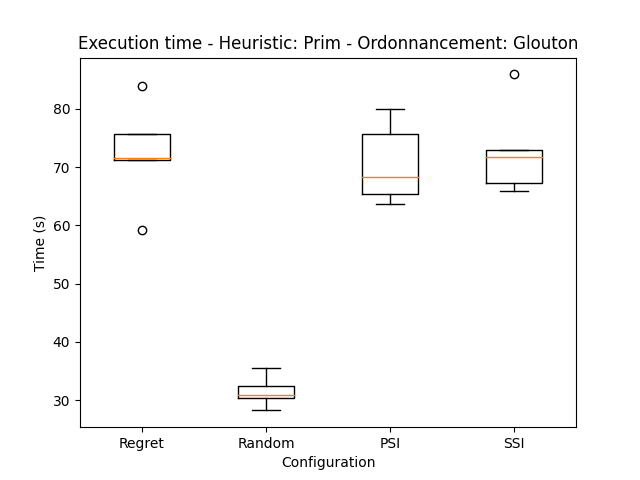
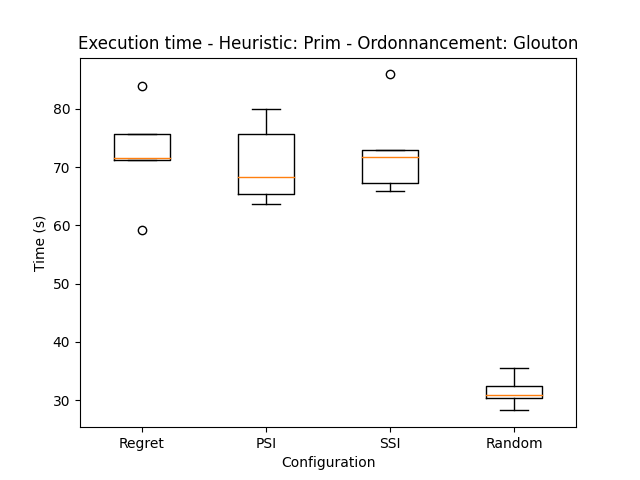
changes

diff --git a/plot_data.py b/plot_data.py
@@ -22,7 +22,7 @@ def plot_data(folder_path, method=None, heuristic=None, ordonnancement=None):
         file_ordonnancement = title.split(",")[2].split(":")[-1].strip()
 
         # Filter based on method, heuristic, and ordonnancement
-        if (method and file_method != method) or (heuristic and file_heuristic != heuristic) or (ordonnancement and file_ordonnancement != ordonnancement) or (method == "Random"):
+        if (method and file_method != method) or (heuristic and file_heuristic != heuristic) or (ordonnancement and file_ordonnancement != ordonnancement):
             continue
 
         all_legend.append(f"{file_method}, {file_heuristic}, {file_ordonnancement}")        
@@ -67,10 +67,21 @@ def plot_data(folder_path, method=None, heuristic=None, ordonnancement=None):
         # Normalize total cost by the number of tasks
         mean_data[" Total cost"] = [cost / tasks if tasks != 0 else 0 for cost, tasks in zip(mean_data[" Total cost"], mean_data[" Number of tasks completed"])]
 
+        # Calculate the ratio of tasks completed
+        total_tasks = sum(mean_data[" Number of tasks completed"])
+        mean_data[" Task ratio"] = [tasks / total_tasks for tasks in mean_data[" Number of tasks completed"]]
+
         all_mean_data.append(mean_data)
         all_execution_time.append(execution_time)
 
-    # Plotting Number of tasks completed as histogram for all files
+    # Ensure "Random" method is last
+    if "Random" in [legend.split(",")[0] for legend in all_legend]:
+        random_index = [legend.split(",")[0] for legend in all_legend].index("Random")
+        all_mean_data.append(all_mean_data.pop(random_index))
+        all_execution_time.append(all_execution_time.pop(random_index))
+        all_legend.append(all_legend.pop(random_index))
+
+    # Plotting Task ratio as histogram for all files
     plt.figure()
     for i, mean_data in enumerate(all_mean_data):
         label = ""
@@ -80,8 +91,8 @@ def plot_data(folder_path, method=None, heuristic=None, ordonnancement=None):
             label += all_legend[i].split(",")[1]
         if not ordonnancement and heuristic != "Insert":
             label += all_legend[i].split(",")[2]
-        plt.bar([x + i * 0.2 for x in range(len(mean_data[" Number of tasks completed"]))], mean_data[" Number of tasks completed"], width=0.2, label=label, color=colors[i])
-    titre = "Number of tasks completed"
+        plt.bar([x + i * 0.2 for x in range(len(mean_data[" Task ratio"]))], mean_data[" Task ratio"], width=0.2, label=label, color=colors[i])
+    titre = "Ratio of tasks completed"
     if method:
         titre += " - Method: " + method
     if heuristic:
@@ -89,11 +100,11 @@ def plot_data(folder_path, method=None, heuristic=None, ordonnancement=None):
     if ordonnancement:
         titre += " - Ordonnancement: " + ordonnancement
     plt.title(titre)
-    plt.ylabel("Number of tasks")
+    plt.ylabel("Task ratio")
     plt.xlabel("Taxi")
-    plt.xticks(range(len(mean_data[" Number of tasks completed"])))  # Set x-axis to 0, 1, 2, etc.
+    plt.xticks(range(len(mean_data[" Task ratio"])))  # Set x-axis to 0, 1, 2, etc.
     plt.legend()
-    name = plot_folder+"number_of_tasks_completed_"+str(method)+"_"+str(heuristic)+"_"+str(ordonnancement)+".png"
+    name = plot_folder+"task_ratio_"+str(method)+"_"+str(heuristic)+"_"+str(ordonnancement)+".png"
     plt.savefig(name)
     plt.close()
     #plt.show()
@@ -193,9 +204,9 @@ def plot_data(folder_path, method=None, heuristic=None, ordonnancement=None):
         plt.close()
         #plt.show()
 
-# plot_data("datas/", method="SSI", heuristic=None, ordonnancement=None)
-# plot_data("datas/", method="PSI", heuristic=None, ordonnancement=None)
-# plot_data("datas/", method="Regret", heuristic=None, ordonnancement=None)
-# plot_data("datas/", method="Random", heuristic=None, ordonnancement=None)
+plot_data("datas/", method="SSI", heuristic=None, ordonnancement=None)
+plot_data("datas/", method="PSI", heuristic=None, ordonnancement=None)
+plot_data("datas/", method="Regret", heuristic=None, ordonnancement=None)
+plot_data("datas/", method="Random", heuristic=None, ordonnancement=None)
 plot_data("datas/", method=None, heuristic="Prim", ordonnancement="Glouton")
-# plot_data("datas/", method=None, heuristic="Insert", ordonnancement=None)
+plot_data("datas/", method=None, heuristic="Insert", ordonnancement=None)
